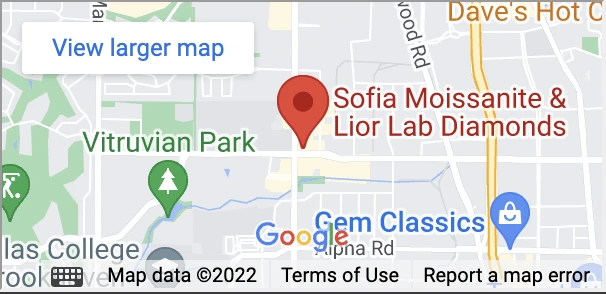
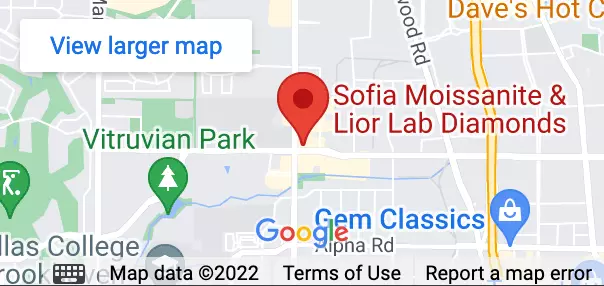
map

diff --git a/index.html b/index.html
@@ -12,7 +12,7 @@
     <header>
 
     </header>
-    
+
     <footer>
         <div class="container-wrap">
             <div class="footer-first-line">
@@ -66,7 +66,7 @@
                 <div>
                     <p class="footer-title">Get Directions</p>
                     <div class="footer-map">
-                        <iframe class="map-iframe" src="https://www.google.com/maps/embed?pb=!1m14!1m8!1m3!1d13414.473613973836!2d-96.8248358!3d32.802376!3m2!1i1024!2i768!4f13.1!3m3!1m2!1s0x0%3A0x3c462e831e2b049f!2sSofia%20Moissanite%20%26%20Lior%20Lab%20Diamonds!5e0!3m2!1sen!2sus!4v1591696986787!5m2!1sen!2sus" frameborder="0"></iframe>
+                        <div data-src="https://www.google.com/maps/embed?pb=!1m14!1m8!1m3!1d13414.473613973836!2d-96.8248358!3d32.802376!3m2!1i1024!2i768!4f13.1!3m3!1m2!1s0x0%3A0x3c462e831e2b049f!2sSofia%20Moissanite%20%26%20Lior%20Lab%20Diamonds!5e0!3m2!1sen!2sus!4v1591696986787!5m2!1sen!2sus" id="mymap"></div>
                         <p>If you are looking for a jewelry store near me, you can make an appointment with us!</p>
                     </div>
                 </div>
@@ -81,6 +81,15 @@
             </div>
         </div>
     </footer>
-
+    <script>
+        let map = document.getElementById ('mymap'); 
+        let maplistner = function (e) { 
+            let frame = document.createElement ('iframe'); 
+            frame.src = this.getAttribute ('data-src'); 
+            map.appendChild (frame); 
+            map.removeEventListener ("mouseover", maplistner); 
+        }; 
+        map.addEventListener ('mouseover', maplistner); 
+    </script>
 </body>
 </html>

diff --git a/Style/footer.css b/Style/footer.css
@@ -102,6 +102,24 @@ footer .container-wrap {
     gap: 20px;
 }
 
+#mymap{
+    background: url(/img/map.webp); 
+    background-size: cover;
+    position: relative;
+    overflow: hidden;
+    width: 303px;
+    height: 143px;
+}
+
+#mymap iframe {
+    position: absolute;
+    top: 0;
+    left: 0;
+    width: 100%;
+    height: 100%;
+    border: 0;
+}
+
 .footer-first-line .footer-map p {
     font-style: italic;
     line-height: 14px;

diff --git a/Style/main.css b/Style/main.css
@@ -8,10 +8,3 @@
 body {
     font-family: Raleway,sans-serif;
 }
-
-header {
-    position: relative;
-    width: 100%;
-    height: 800px;
-    background-color: aqua;
-}
